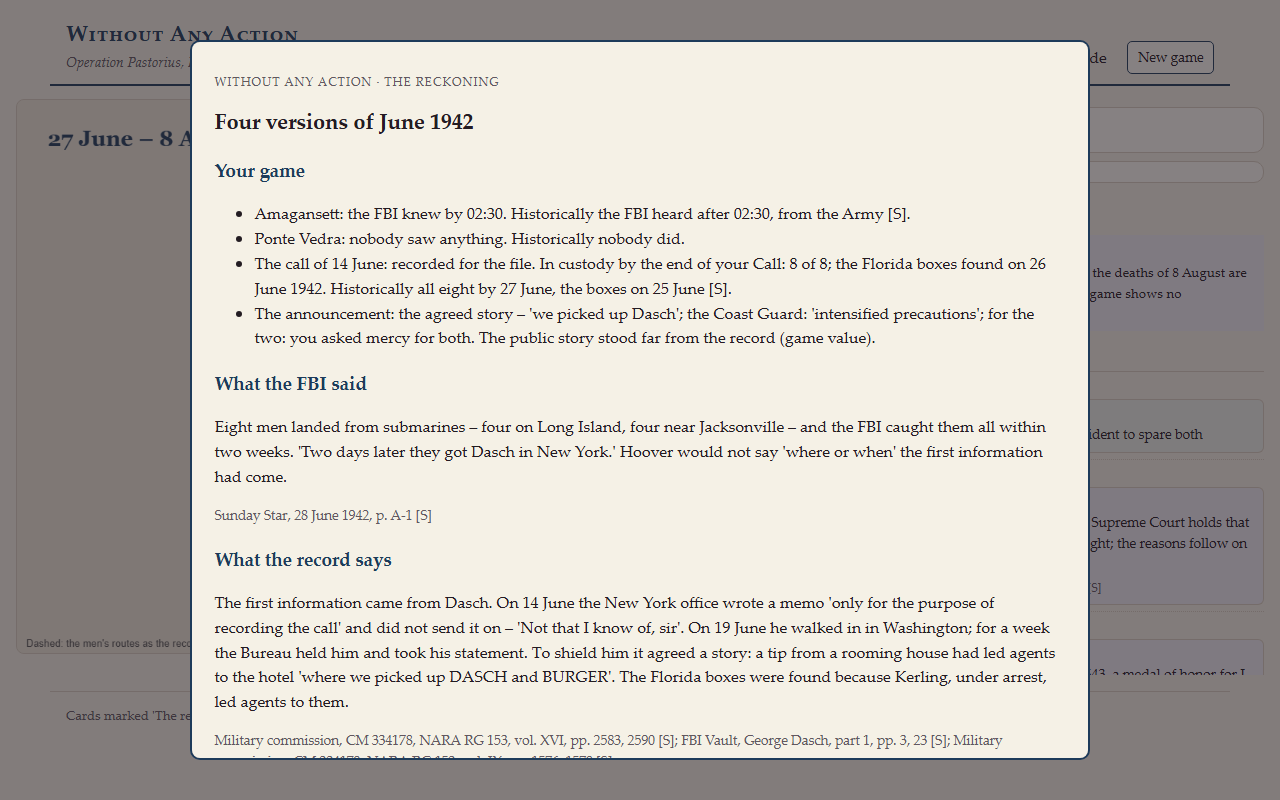
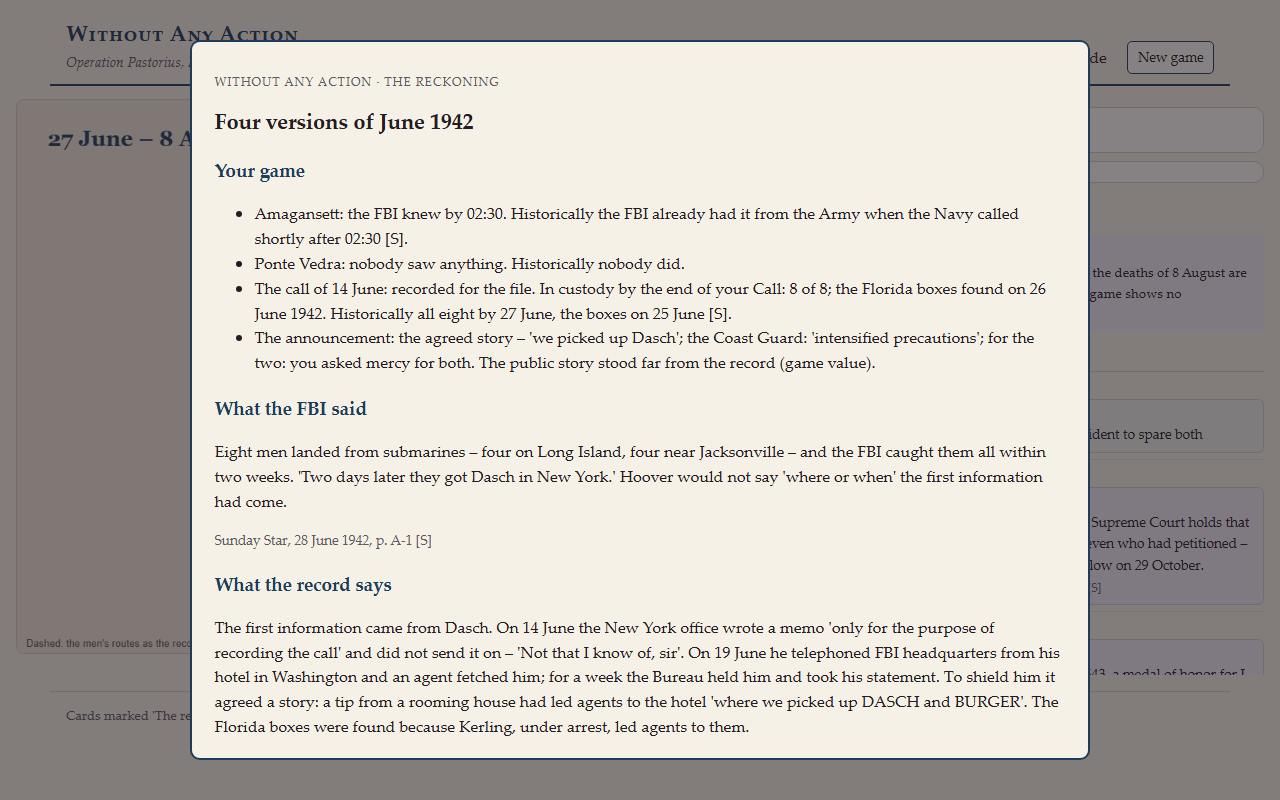
Corrections from the reader transcriptions; station plate upright; reader in ITCH-TEXT

Changed region(s): [[0.1562, 0.25, 0.8438, 0.9375], [0.8438, 0.6562, 0.9688, 0.7188]]

diff --git a/data-wa.js b/data-wa.js
@@ -16,20 +16,20 @@
   };
 
   /* ---------------------------------------------------------------- I A: Amagansett, 12/13 June 1942 */
-  WA.AMA_INTRO = { t1: "Amagansett Coast Guard station, Long Island, a little before midnight on 12 June 1942. Fog; 'very dark'; low tide. Seaman Second Class John C. Cullen is due out at 00:10 on the patrol east. The order of 11 April says two men to a watch, both ways from the station.",
-    src: `${T}, vol. I, pp. 101, 109 (Cullen) [S]; vol. II, exhibit P-13-A (order of 11 April 1942) [S]` };
+  WA.AMA_INTRO = { t1: "Amagansett Coast Guard station, Long Island, a little before midnight on 12 June 1942. Fog; 'very dark'; low tide. John C. Cullen of the station's crew is due out at 00:10 on the patrol east. The order of 11 April says two men to a watch, both ways from the station.",
+    src: `${T}, vol. I, pp. 101, 109 (Cullen) [S]; Eastern Sea Frontier, War Diary, June 1942, NAID 78184481, image 539 [S]; vol. II, exhibit P-13-A (order of 11 April 1942) [S]` };
   WA.AMA = [
     { at: 25, k: "beach", t1: "Not quite half a mile from the station Cullen meets men at the water's edge. One says they are fishermen who have run aground; he offers about a hundred dollars, then about three hundred. Cullen takes the money – he counts $260 later – and goes back.",
       src: `${T}, vol. I, pp. 101–111 (Cullen) [S]; Eastern Sea Frontier, War Diary, June 1942, NAID 78184481, image 539 [S]` },
-    { at: 65, k: "file", t1: "01:05: the chief boatswain's mate in charge, Warren Barnes, is called at his house; at 01:12 he is at the station, at 01:15 on the beach. The duty man, Jenette, has gone down with three men and rifles.",
-      src: `${T}, vol. I, pp. 121–127 (Barnes) [S]` },
+    { at: 65, k: "file", t1: "01:05: the chief boatswain's mate in charge, Warren Barnes, is called at his house; at 01:12 he is at the station, at 01:15 on the beach. The duty man, Jenette, has gone down with three men and Cullen, all with rifles. On the beach there is a smell of diesel.",
+      src: `${T}, vol. I, pp. 121–127 (Barnes) [S]; Eastern Sea Frontier, War Diary, June 1942, NAID 78184481, image 541 [S]` },
     { at: 115, k: "file", t1: "01:55: the report reaches the District Intelligence Officer of the Third Naval District; about 02:00 the Eastern Sea Frontier. Eight Coast Guardsmen are on the beach – the report upstairs says 'at least 100'. An Army lieutenant comes with twenty men.",
       src: "Eastern Sea Frontier, War Diary, June 1942, NAID 78184481, images 539–543 [S]" },
-    { at: 150, k: "file", t1: "After 02:30 the FBI in New York is reached; it already has the story – from the Army.",
+    { at: 150, k: "file", t1: "Shortly after 02:30 the Navy reaches the FBI in New York; the FBI already has the story – from the Army.",
       src: "Eastern Sea Frontier, War Diary, June 1942, NAID 78184481, image 544 [S]" },
-    { at: 255, k: "beach", t1: "About 04:15: engines heard to the south, offshore. A smell of diesel.",
-      src: "Eastern Sea Frontier, War Diary, June 1942, NAID 78184481 [S]" },
-    { at: 330, k: "beach", t1: "First light: four wooden boxes, six inches under the sand, wrapped in paper and canvas, tin cans inside; 150 feet to the north-east a bag of clothes and two shovels. On top: a raincoat, bathing trunks, a sneaker, cigarettes.",
+    { at: 255, k: "beach", t1: "About 04:15: the sound of engines offshore, going away to the south.",
+      src: `${T}, vol. I, p. 126 (Barnes) [S]` },
+    { at: 330, k: "beach", t1: "First light: four wooden boxes, six inches under the sand, wrapped in paper and canvas, tin cans inside; 150 feet to the north-east a bag of clothes and two shovels. On top: a raincoat, bathing trunks, a sneaker.",
       src: `${T}, vol. I, pp. 127–130 (Barnes) [S]` }
   ];
   WA.AMA_AFTER = [
@@ -53,7 +53,7 @@
       src: "Section Base Mayport, War Diary, 16 June 1942, NAID 133928462, image 124 [S]" },
     { k: "file", t1: "17 June, 00:00–07:00: YP-31 'Patrolling area South from St. Mary's Sea Buoy to St. Johns Lightship' – north of the river. No boat is south of the mouth all night.",
       src: "Section Base Mayport, War Diary, 17 June 1942, NAID 133928462, image 125 [S]" },
-    { k: "file", t1: "U-584, war diary, 17 June, 08:00 German time (about 02:00 on the beach): 'S.-Unternehmung gemäss Befehl durchgeführt. Starke Luftüberwachung.' – special operation carried out as ordered; strong air patrols.",
+    { k: "file", t1: "U-584, war diary, 17 June, 08:00 by the boat's clock (about 02:00 on the beach, if, as its dive times suggest, it ran six hours ahead): 'S.-Unternehmung gemäss Befehl durchgeführt. Starke Luftüberwachung.' – special operation carried out as ordered; strong air patrols.",
       src: "U-584, Kriegstagebuch, NARA T1022, roll 3392, image 650 [S]" },
     { k: "beach", t1: "The four walk north along the beach, 'passing some houses'; at daybreak, near Jacksonville Beach, they rest behind 'a concrete wall' – a sea wall. By bus they reach Jacksonville about noon.",
       src: `${T}, vol. X, p. 1800 (Thiel's statement) [S]; QS-B (bus, hotels) [O]` }
@@ -63,25 +63,25 @@
   WA.CALL_EVENTS = [
     { t: 0, k: "file", t1: "Sunday, 14 June, 19:51, FBI New York: 'FRANK DANIEL POSTORIUS called this office by telephone.' He has come from Germany 'two days ago'; on Thursday or Friday he will go to Washington to see 'Mr. HOOVER or his secretary'. He will not say where he is staying and refuses to come to the office; he asks that his call be recorded and Washington told.",
       src: `${T}, vol. XVI, p. 2583 (Def. Exh. G, memo of Special Agent McWhorter) [S]` },
-    { t: 1, k: "file", t1: "15 June: Assistant Director E. J. Connelley takes charge of the case in New York. The Bureau has no name for any of the men.",
-      src: `${T}, vol. XVI, p. 2588 (Connelley) [O]` },
-    { t: 3, k: "press", t1: "In Florida a newspaper asks whether the FBI has arrested four Germans landed on the coast. The FBI says nothing.",
-      src: "FBI Vault, George Dasch, part 1, p. 4 [O]; Evening Star, 9 Aug. 1942, p. A-4: 'after 10 days of rumors' [S]" },
+    { t: 1, k: "file", t1: "15 June: Assistant Director E. J. Connelley takes charge of the case in New York. Nobody of the name of 'Pastorius' has been identified.",
+      src: `${T}, vol. XVI, pp. 2588, 2590 (Connelley) [S]` },
+    { t: 5, k: "press", t1: "In Florida, Hoover tells New York on the telephone, the press has asked the FBI's office whether four Germans landed on the coast have been arrested.",
+      src: "FBI Vault, George Dasch, part 1, p. 4 (Hoover's calls of 19 June) [S]; Evening Star, 9 Aug. 1942, p. A-4: 'after 10 days of rumors' [S]" },
     { t: 5, k: "file", t1: "Friday, 19 June, about 10:00: from the Mayflower Hotel in Washington a man calls FBI headquarters as 'George Davis', 'leader of a group of eight men'. At 10:30 an agent fetches him. Before that he had tried to reach a Colonel Cramer of the Provost Marshal General's office – without success.",
-      src: `${T}, vol. V, pp. 695–696 (Traynor) [O]; stipulation, vol. IV, p. 476 [S]` },
-    { t: 5, k: "file", t1: "Headquarters had not been told of the call from New York. 'I had received no such notification.'",
+      src: `${T}, vol. V, pp. 695–696 (Traynor) [S]; stipulation, vol. IV, p. 476 [S]` },
+    { t: 5, k: "file", t1: "At headquarters, the agent who will take the man's statement has not been told of the call from New York: 'I had received no such notification.'",
       src: `${T}, vol. XI, p. 1854 (Traynor, FBI headquarters, cross-examination) [S]` },
     { t: 6, k: "file", t1: "20 June, 17:00–17:30, New York: Quirin, Heinck and Burger arrested, after Burger met the other two at Rogers Peet on Fifth Avenue.",
       src: `FBI Vault, George Dasch, part 1, p. 10 [S]; ${T}, vol. IV, p. 476 [S]` },
     { t: 8, k: "file", t1: "22 June: the handkerchief Dasch handed over is developed with ammonia. In secret ink: an address in Lisbon, a pastor in New Jersey, Walter Froehling in Chicago, and 'Helmut Leiner, who he stated was a friend of Kerling's, with whom he could always contact and locate Kerling'.",
-      src: `${T}, vol. V, pp. 694–695, 739, 741 (Traynor) [S]` },
+      src: `${T}, vol. V, pp. 694–695, 739–741 (Traynor) [S]` },
     { t: 9, k: "file", t1: "23 June, about 22:00: Edward Kerling is arrested in front of the Shelton Hotel on Lexington Avenue, on his way – he said – to meet his wife. Between 23:30 and 23:50 Werner Thiel, outside the Commodore on 42nd Street.",
-      src: `${T}, vol. IX, p. 1509 (Fisher) [S]; vol. X, p. 1758 (Foster) [S]; Kerling's statement, vol. IX, p. 1562 [O]` },
+      src: `${T}, vol. IX, p. 1509 (Fisher) [S]; vol. X, pp. 1758–1759 (Foster) [S]; Kerling's statement, vol. IX, p. 1563 [S]` },
     { t: 10, k: "file", t1: "24 June, 20:00: Dasch, held since the 19th in 'protective custody', is formally arrested.",
       src: `${T}, vol. IV, p. 476 (stipulation) [S]` },
-    { t: 11, k: "beach", t1: "25 June: FBI agents with Kerling, off the Silver Meteor at 08:30, drive south from Ponte Vedra 'about 4 miles' on Route 140 and search on foot. By a barbed-wire fence, a concrete foundation and three palm stumps, about 100 yards from the water, they dig up four boxes. Thirty feet to the north: two shovels and four German naval caps. Only FBI men are there.",
+    { t: 11, k: "beach", t1: "25 June: FBI agents with Kerling, off the Silver Meteor at 08:30, drive south from Ponte Vedra 'about 4 miles' on Route 140 and search on foot. By a barbed-wire fence, a concrete foundation and three palm stumps, about 100 yards from the water, they dig up four boxes. Only FBI men are there. Later, thirty feet to the north, an agent digs up two shovels and four German caps.",
       src: `${T}, vol. IX, pp. 1576–1578 (Holtzman) [S]; vol. X, pp. 1702–1703 (Prior) [S]` },
-    { t: 12, k: "file", t1: "26 June: Naval intelligence in New York learns of the Florida landing – 'by accident'. That night, for the first time, a Mayport boat patrols 'between St. Johns Lightship and Ponte Vedra, Fla.'",
+    { t: 12, k: "file", t1: "From 00:00 on 26 June – the night after the FBI dug up the boxes – a Mayport boat patrols for the first time 'between St. Johns Lightship and Ponte Vedra, Fla.' The same day naval intelligence in New York learns of the Florida landing – 'by accident'.",
       src: "Eastern Sea Frontier, War Diary, June 1942, NAID 78184481 [S]; Section Base Mayport, War Diary, 26 June 1942, NAID 133928462, image 136 [S]" },
     { t: 13, k: "file", t1: "27 June, 09:08, Chicago: Herbert Haupt is arrested at the Webster Street elevated station; at 18:45 Hermann Neubauer, in the Sheridan Plaza Hotel.",
       src: `${T}, vol. IX, p. 1603 (Hirsh) [S]; vol. X, p. 1706 (Fisher) [S]; vol. IV, p. 476 [S]` }
@@ -109,10 +109,10 @@
       src: "Sunday Star (Washington), 28 June 1942, p. A-1, special dispatch from New York [S]" },
     { s: "coast", k: "press", t1: "Page A-4: 'The Nazi Plot That Failed'. FBI photographs, released to the press: 'Scene south of Jacksonville, Fla., showing location of boxes of explosives still in hole on the beach'.",
       src: "Sunday Star, 28 June 1942, p. A-4, A.P. Wirephoto [S]" },
-    { s: "rumour", k: "press", t1: "'Nazi Saboteurs' Contact Men Seized by Federal Agents.' For the first time a place in Florida is named: they 'landed at Ponte Vedra Beach, near Jacksonville, Fla., June 17, Mr. Hoover said'. 'We have their full statements of confession.'",
-      src: "Evening Star, 29 June 1942, p. A-1, AP [S]; quotation [O]" },
+    { s: "rumour", k: "press", t1: "'Nazi Saboteurs' Contact Men Seized by Federal Agents.' For the first time Ponte Vedra Beach is named: they 'landed at Ponte Vedra Beach, near Jacksonville, Fla., June 17, Mr. Hoover said'. 'We have their full statements of confession.'",
+      src: "Evening Star, 29 June 1942, p. A-1, AP [S]" },
     { s: "rumour", k: "press", t1: "'The FBI did not reveal how the dynamiters were caught. An unofficial report was that a lone unarmed Coast Guardsman …'",
-      src: "Evening Star, 29 June 1942, p. A-2, AP [O]" },
+      src: "Evening Star, 29 June 1942, p. A-2, AP [S]" },
     { s: "commission", k: "file", t1: "2 July: by Proclamation 2561 the President closes the civil courts to enemies entering the country to commit sabotage; a military order names a commission of seven generals. The Star: '7 ARMY GENERALS TO TRY SABOTEURS HERE'.",
       src: "Proclamation 2561 and Military Order, 2 July 1942, 7 Federal Register 5101, 5103 [S]; Evening Star, 2 July 1942, p. A-1 [S]" },
     { s: "commission", k: "file", t1: "From 8 July the commission sits behind closed doors. Cullen tells of the night on the beach; on 27 July, called by the defence, McWhorter and Connelley testify on the call of 14 June.",
@@ -123,14 +123,14 @@
       src: "USCG, First Naval District, 'Landing of Enemy Agents', 16 July 1942, NAID 207525008, p. 1 [S]" },
     { s: "lenient", k: "file", t1: "23 July: the Senate passes S. 2643, a medal of honor for J. Edgar Hoover for the arrest of 'enemy agents, saboteurs, and fifth columnists during the month of June 1942'. 25 July: Coast Guard Headquarters orders an organized beach patrol in all coastal districts.",
       src: "FBI Vault, J. Edgar Hoover, part 5, p. 57 [S]; The Coast Guard at War XVII: Beach Patrol (1945), p. 5 [S]" },
-    { s: "lenient", k: "file", t1: "31 July: in Ex parte Quirin the Supreme Court holds that the commission may try the eight; the reasons follow on 29 October.",
+    { s: "lenient", k: "file", t1: "31 July: in Ex parte Quirin the Supreme Court holds that the commission may try the seven who had petitioned – Dasch had not; the reasons follow on 29 October.",
       src: "Ex parte Quirin, 317 U.S. 1 (1942) [S]" }
   ];
   WA.END_RECORD = [
-    "On 8 August 1942 six of the eight were put to death in the District of Columbia jail. The President, the White House announced, had spared two – Burger with a life sentence, Dasch with thirty years – 'because they helped the Government apprehend and convict the others'.",
-    "In April 1948 President Truman granted clemency to Dasch and Burger on condition of deportation; both were sent to Germany."
+    "On 8 August 1942 six of the eight were put to death in the District of Columbia jail. The President, the White House announced, had spared two – Burger with a life sentence, Dasch with thirty years – 'because of their assistance to the Government of the United States in the apprehension and conviction of the others'.",
+    "In April 1948 President Truman approved clemency for Dasch and Burger; the Army took both to the American Zone of Germany, where the rest of their sentences was suspended under conditions."
   ];
-  WA.END_SRC = "Evening Star, 8 Aug. 1942, p. A-1 [S], quotation [O]; White House press release, 26 April 1948, NAID 284841056 [S]";
+  WA.END_SRC = "White House statement, in the Evening Star, 8 Aug. 1942, p. A-1 [S]; White House press release, 26 April 1948, NAID 284841056 [S]";
   WA.AFTER = [
     { t1: "In Chicago, Haupt's parents and others were tried for treason for having sheltered him; the Supreme Court upheld Hans Max Haupt's conviction in 1947.", src: "Haupt v. United States, 330 U.S. 631 (1947) [S]" },
     { t1: "In New York the conviction of Anthony Cramer, who had met Thiel and Kerling, was reversed in 1945.", src: "Cramer v. United States, 325 U.S. 1 (1945) [S]" },
@@ -143,17 +143,17 @@
   WA.VERSIONS = {
     fbi: { title: "What the FBI said", text: "Eight men landed from submarines – four on Long Island, four near Jacksonville – and the FBI caught them all within two weeks. 'Two days later they got Dasch in New York.' Hoover would not say 'where or when' the first information had come.",
       src: "Sunday Star, 28 June 1942, p. A-1 [S]" },
-    record: { title: "What the record says", text: "The first information came from Dasch. On 14 June the New York office wrote a memo 'only for the purpose of recording the call' and did not send it on – 'Not that I know of, sir'. On 19 June he walked in in Washington; for a week the Bureau held him and took his statement. To shield him it agreed a story: a tip from a rooming house had led agents to the hotel 'where we picked up DASCH and BURGER'. The Florida boxes were found because Kerling, under arrest, led agents to them.",
+    record: { title: "What the record says", text: "The first information came from Dasch. On 14 June the New York office wrote a memo 'only for the purpose of recording the call' and did not send it on – 'Not that I know of, sir'. On 19 June he telephoned FBI headquarters from his hotel in Washington and an agent fetched him; for a week the Bureau held him and took his statement. To shield him it agreed a story: a tip from a rooming house had led agents to the hotel 'where we picked up DASCH and BURGER'. The Florida boxes were found because Kerling, under arrest, led agents to them.",
       src: `${T}, vol. XVI, pp. 2583, 2590 [S]; FBI Vault, George Dasch, part 1, pp. 3, 23 [S]; ${T}, vol. IX, pp. 1576–1578 [S]` },
-    coast: { title: "What the Coast Guard said", text: "A lone patrolman met the first four on the beach, kept his head, took their money and reported; the station found the boxes at dawn. After the war its own history had the Florida boxes found by 'local fishermen' and Dasch 'picked up at Yorkville'. Both are wrong.",
-      src: "Boston Daily Globe, 16 July 1942, AP [S]; The Coast Guard at War XVII: Beach Patrol (1945), p. 5, notes 1–2 [S]" },
-    beach: { title: "What the beach at Ponte Vedra saw", text: "Nothing. That night the only patrol boat out ran north of the river; the Army's motor patrol kept to the inhabited stretch of the beach road. The first night patrol off Ponte Vedra is in the war diary for 26 June – the night after the FBI dug up the boxes.",
+    coast: { title: "What the Coast Guard said", text: "A lone patrolman met the first four on the beach, kept his head, took their money and reported; the station found the boxes at dawn. In 1945 its own confidential history had the Florida boxes found by 'local fishermen' and Dasch 'picked up at Yorkville'. Both are wrong.",
+      src: "Boston Daily Globe, 16 July 1942, AP, extract in USCG file NAID 207525008 [S]; The Coast Guard at War XVII: Beach Patrol (15 May 1945), p. 5, notes 1–2 [S]" },
+    beach: { title: "What the beach at Ponte Vedra saw", text: "Nothing. That night the only patrol boat out ran north of the river; the Army's motor patrol was ordered to the inhabited stretch of the beach road. The first night patrol off Ponte Vedra is in the war diary for 26 June – the night after the FBI dug up the boxes.",
       src: "Section Base Mayport, War Diary, 17 and 26 June 1942, NAID 133928462, images 125, 136 [S]; " + T + ", vol. IV, p. 529 [S]" }
   };
 
   /* ---------------------------------------------------------------- fixed record panels */
   WA.FIXED = {
-    ama: "No one on the US side ever fired a shot or made an arrest on the beach. The Coast Guard patrols were unarmed; the investigation of enemy agents was the FBI's.",
+    ama: "No one on the US side fired a shot or made an arrest on the beach. Cullen walked unarmed; after his report the station armed its men. The investigation of enemy agents was the FBI's.",
     pv: "Nobody saw the landing at Ponte Vedra. The game lets you try – the record does not.",
     call: "How the Florida men were found, no witness told the commission; the times of arrest were agreed between counsel, without places.",
     credit: "The commission's verdicts and the deaths of 8 August are the record, never a move. This game shows no photograph of the dead."

diff --git a/engine.js b/engine.js
@@ -13,10 +13,10 @@
   E.newAma = seed => ({ r: seed >>> 0, step: 0, t: 0, desc: 30, evidence: 50, cg: 50, fbiAt: null, seenTrain: false, dec: {}, over: false });
   const AMA_DEC = [
     { id: "watch", title: "Setting the watch", text: "Cullen is due out at 00:10. The order of 11 April says two men to a watch, both ways; the station is short of men and the fog is thick.",
-      note: "Historically Cullen went alone, eastward, unarmed [S]. Every patrol is unarmed in this game.",
+      note: "Historically Cullen went alone, eastward, unarmed [S]. In this game nobody is armed until a report comes in.",
       opts: [["solo", "One man east, as usual"], ["pair", "Two men east, as ordered"], ["both", "Two pairs, east and west – the station nearly empty"]] },
     { id: "report", title: "Cullen is back", text: "He has met four men at the water's edge – fishermen, they said – and has been paid to forget it. He is shaken; the money is in his pocket.",
-      note: "Historically the duty man took three men with rifles to the beach and the chief, Barnes, was called; the Navy and the Army were told from the station [S].",
+      note: "Historically the duty man took three men and Cullen, all with rifles, to the beach and the chief, Barnes, was called; the Navy and the Army were told from the station [S].",
       opts: [["chief", "Call the chief, send men to the beach, tell the Navy"], ["army", "Call the Army post first – it is five miles off"], ["fbi", "Telephone the FBI in New York yourself"]] },
     { id: "search", title: "On the beach", text: "Fog, low tide, no moon. Footprints run up into the dunes. The men are gone – inland, to the road, the village, the railway.",
       note: "Historically the beach and dunes were searched; the boxes were found at first light [S]. The four took a train to New York [L].",
@@ -25,7 +25,7 @@
       note: "Historically the FBI took the lead at an 11:00 conference; the Coast Guard kept a vest for its own inquiry until 17 June [S].",
       opts: [["hand", "Hand everything to the FBI as it lies"], ["keep", "Keep some pieces for the Coast Guard's own inquiry"], ["navy", "Report through the Navy and let them decide"]] },
     { id: "silence", title: "The men talk", text: "By noon Amagansett knows that something has happened on the beach. Your men are asked in the village.",
-      note: "The Coast Guard's own story came out through the Office of War Information on 15 July [S]; an 'unofficial report' of 'a lone unarmed Coast Guardsman' was in print on 29 June [O].",
+      note: "The Coast Guard's own story came out through the Office of War Information on 15 July [S]; an 'unofficial report' of 'a lone unarmed Coast Guardsman' was in print on 29 June [S].",
       opts: [["order", "Order silence – not a word, to anyone"], ["navy", "Leave it to the Navy to say what is said"]] }
   ];
   E.amaDecision = A => A.over ? null : AMA_DEC[A.step] || null;
@@ -39,7 +39,7 @@
       const base = { chief: 150, army: 120, fbi: 70 }[ch]; A.fbiAt = base + (A.lag || 0); A.t = 75;
       if (ch === "army") { A.cg -= 5; A.army = true; out.push("The Army post sends a truck of men; they are on the beach before 01:30. (game value)"); }
       if (ch === "fbi") { A.cg -= 10; A.evidence += 5; out.push(`The New York night desk takes the call at ${E.hhmm(A.fbiAt)} and writes it down. (game event)`); }
-      out.push(`The FBI knows by ${E.hhmm(A.fbiAt)} (historically after 02:30 – from the Army [S]).`);
+      out.push(`The FBI knows by ${E.hhmm(A.fbiAt)} (historically it already had it from the Army when the Navy called shortly after 02:30 [S]).`);
     }
     if (id === "search") {
       A.t = 330;
@@ -75,7 +75,7 @@
   E.newPv = seed => ({ r: (seed ^ 0x5bd1e995) >>> 0, h: 0, boats: { yp31: { at: "port", sea: 0 }, yp32: { at: "port", sea: 0 } }, army: null, aux: null, seen: null, northGap: 0, dec: {}, over: false });
   const PV_DEC = [
     { id: "army", title: "The Army's motor patrol", text: "The 104th Infantry's order of 3 June puts its motor patrol 'along the inhabited area of the beach road'. South of Ponte Vedra the road runs through empty dunes.",
-      note: "Historically the patrol kept to its order [S]; how many trucks and men it had, the record does not say.",
+      note: "Historically the order was in force that night and covered Ponte Vedra [S]; how many trucks and men the patrol had, and where it was at what hour, the record does not say.",
       opts: [["town", "Leave the Army to its order"], ["south", "Ask the Army to run part of the patrol south of Ponte Vedra"]] },
     { id: "aux", title: "Volunteers", text: "The Coast Guard Auxiliary is to 'provide volunteer beach patrols and lookouts' – on paper. Nobody has yet been posted on this beach.",
       note: "Rescue Order 1-42, June 1942 [S]. The organized beach patrol was ordered only on 25 July 1942 [S].",
@@ -84,7 +84,7 @@
   E.pvDecision = P => P.over ? null : (P.h === 0 && PV_DEC.find(d => !(d.id in P.dec))) || null;
   E.pvDecide = (P, id, ch) => { P.dec[id] = ch; if (id === "army") P.army = ch; if (id === "aux") P.aux = ch === "post"; return []; };
   E.pvClock = P => E.hhmm(20 * 60 + P.h * 60);
-  E.pvOrders = (P, b) => { if (b === "yp32" && P.h < 1) return [["port", "In port (crew ashore until 20:30)"]]; return D.ZONES.map(z => [z.id, z.name]); };
+  E.pvOrders = (P, b) => { if (b === "yp32" && P.h < 1) return [["port", "In port (not ready before 21:00 – game value)"]]; return D.ZONES.map(z => [z.id, z.name]); };
   E.pvEnd = (P, orders) => {
     const out = [];
     for (const b of ["yp31", "yp32"]) { const B = P.boats[b]; const o = orders[b] || B.at; B.at = o; if (o === "port") B.sea = Math.max(0, B.sea - 2); else B.sea++; }
@@ -136,7 +136,7 @@
       note: "Historically agents took Kerling south on the Silver Meteor; he showed them the place on 25 June [S]. No Coast Guard or Army man was there [S].",
       opts: [["take", "Take Kerling to Jacksonville"], ["search", "Ask the Army and Coast Guard to search the beach"], ["wait", "Wait until he names the place"]] },
     navy: { title: "Telling the Navy", text: "The Navy and the Coast Guard in Jacksonville do not know that Germans landed on their beach.",
-      note: "Historically naval intelligence learned of it 'by accident' on 26 June [S].",
+      note: "Historically naval intelligence in New York learned of it 'by accident' on 26 June [S].",
       opts: [["keep", "Keep it within the Bureau for now"], ["tell", "Tell the Navy in Jacksonville at once"]] },
     chicago: { title: "Chicago: Haupt and Neubauer", text: "Haupt is staying with his family; Neubauer in a hotel. Agents watch both.",
       note: "Historically both were taken on 27 June [S].",
@@ -230,13 +230,13 @@
       note: "Historically the FBI's account said only that the Coast Guard had 'intensified precautions' [S].",
       opts: [["precaution", "'Intensified precautions' – no more"], ["cullen", "Name the patrolman and what he did"], ["nothing", "Say nothing about the Coast Guard"]] },
     rumour: { title: "'A lone unarmed Coast Guardsman'", text: "An unofficial report is in the papers: a single unarmed Coast Guardsman met the first group.",
-      note: "Historically 'The FBI did not reveal how the dynamiters were caught' [O].",
+      note: "Historically 'The FBI did not reveal how the dynamiters were caught' [S].",
       opts: [["silent", "No comment"], ["confirm", "Confirm it"], ["deny", "Deny it"]] },
     commission: { title: "Before the commission", text: "Defence counsel want to know what happened to a telephone call to the New York office on 14 June.",
       note: "Historically McWhorter and Connelley testified, called by the defence: the memo was not sent on [S].",
       opts: [["straight", "Let the agents answer straight"], ["narrow", "Keep their answers as narrow as the questions"]] },
     lenient: { title: "Two of the eight", text: "Dasch came in of his own accord; Burger told everything from the first hour. The commission will sentence all eight; the President will decide.",
-      note: "Historically Biddle and Hoover asked the President to spare both [O]; two were spared 'because they helped the Government' [S].",
+      note: "Historically the commission itself recommended clemency for both, unanimously, and the Attorney General and the Judge Advocate General concurred; the two were spared 'because of their assistance to the Government' [S].",
       opts: [["both", "Ask the President to spare both"], ["dasch", "Ask for Dasch alone"], ["none", "Leave it to the commission"]] }
   };
   E.creditDecision = K => { if (K.over) return null; const st = D.CREDIT_STAGES[K.s]; return st && CR_DEC[st.id] && !(st.id in K.dec) ? Object.assign({ id: st.id }, CR_DEC[st.id]) : null; };

diff --git a/reckoning.js b/reckoning.js
@@ -8,7 +8,7 @@ window.Reckoning = function (S, E, D) {
 
   // your game
   h += `<h3>Your game</h3><ul>`;
-  if (A) h += `<li>Amagansett: the FBI knew by ${E.hhmm(o.ama ? o.ama.fbiAt : A.fbiAt || 150)}${A.dec.search === "road" ? (A.seenTrain ? "; your men saw the four board the train" : "; your men watched the road and the station, and saw nothing") : ""}${A.dec.finds === "keep" ? "; the Coast Guard kept some pieces for itself" : ""}. Historically the FBI heard after 02:30, from the Army [S].</li>`;
+  if (A) h += `<li>Amagansett: the FBI knew by ${E.hhmm(o.ama ? o.ama.fbiAt : A.fbiAt || 150)}${A.dec.search === "road" ? (A.seenTrain ? "; your men saw the four board the train" : "; your men watched the road and the station, and saw nothing") : ""}${A.dec.finds === "keep" ? "; the Coast Guard kept some pieces for itself" : ""}. Historically the FBI already had it from the Army when the Navy called shortly after 02:30 [S].</li>`;
   if (P) h += `<li>Ponte Vedra: ${P.seen ? `${esc(P.seen.who)} reported ${esc(P.seen.what)} (game event)` : "nobody saw anything"}. Historically nobody did.</li>`;
   if (C) { const s = o.call || E.callSummary(C); h += `<li>The call of 14 June: ${esc({ file: "recorded for the file", wire: "recorded and wired to Washington", come: "you asked him to come in" }[s.call])}. In custody by the end of your Call: ${s.held.length} of 8${s.boxesDay != null ? `; the Florida boxes found on ${esc(E.dateOf(D.DAY0, s.boxesDay))}` : ""}. Historically all eight by 27 June, the boxes on 25 June [S].</li>`; }
   if (K) h += `<li>The announcement: ${esc({ cover: "the agreed story – 'we picked up Dasch'", forward: "one of them came forward, unnamed", full: "the whole story, the call included" }[K.dec.announce] || "–")}; the Coast Guard: ${esc({ precaution: "'intensified precautions'", cullen: "the patrolman named", nothing: "not mentioned" }[K.dec.coast] || "–")}; for the two: ${esc({ both: "you asked mercy for both", dasch: "you asked mercy for Dasch", none: "you left it to the commission" }[K.dec.lenient] || "–")}. The public story stood ${K.truth >= 60 ? "close to" : K.truth >= 35 ? "some way from" : "far from"} the record (game value).</li>`;

diff --git a/guide.html b/guide.html
@@ -16,7 +16,7 @@
 <main class="readable">
   <p class="tag">Guide</p><h1>How the game works</h1>
   <h2>I. The Beach (12/13 and 16/17 June 1942)</h2>
-  <p><b>Amagansett.</b> You run the Coast Guard station on Long Island for one night. You set the watch, decide whom to call when Seaman Cullen comes back with the strangers' money, where to send your men, what to do with the finds at first light and what the men may say. The record's times – 00:10, 01:05, 01:55, after 02:30 – come into the chronicle as you go. Every patrol is unarmed; the investigation of enemy agents belongs to the FBI.</p>
+  <p><b>Amagansett.</b> You run the Coast Guard station on Long Island for one night. You set the watch, decide whom to call when Seaman Cullen comes back with the strangers' money, where to send your men, what to do with the finds at first light and what the men may say. The record's times – 00:10, 01:05, 01:55, after 02:30 – come into the chronicle as you go. Cullen walks unarmed; the investigation of enemy agents belongs to the FBI.</p>
   <p><b>Ponte Vedra.</b> You are at the naval section base at Mayport, at the mouth of the St. Johns River, from 20:00 to 06:00. Each hour, give the two patrol boats YP-31 and YP-32 an area. Before the night you may ask the Army to run part of its motor patrol south of Ponte Vedra, and post two volunteers on the beach. A boat may stay out eight hours. Somebody may see something – rarely. Historically nobody did.</p>
   <h2>II. The Call (14–27 June 1942)</h2>
   <p>Each turn is a day at the FBI. Choose two things to do: canvass Long Island, work the evidence, watch known contacts, share with the Navy and Coast Guard, keep the press out – and, if the beach in Florida gave you a lead, search Jacksonville. The decisions come as they came: the call at 19:51 on Sunday 14 June, the man in Washington, the three in New York, the handkerchief in secret ink, the boxes in Florida, telling the Navy, Chicago. What happened in 1942 runs in the chronicle as 'The record'; what happens in your game is marked 'Game'.</p>

diff --git a/tools/make-assets.py b/tools/make-assets.py
@@ -35,4 +35,6 @@ for f, name in [("mayport-1942-06-17_0722.jpg", "mayport17.jpg"), ("mayport-1942
     im = Image.open(N / f).convert("L"); save(im.crop((0, int(im.height * 0.04), im.width, int(im.height * 0.86))), P / name)
 bp = pymupdf.open(Q / "cg-at-war" / "USCGATWAR-BEACHPATROL.pdf")
 for pno, name in [(5, "station1945.jpg"), (3, "mounted1945.jpg"), (7, "dog1945.jpg")]:
-    im = Image.open(io.BytesIO(bp[pno - 1].get_pixmap(dpi=150).tobytes("png"))).convert("L"); save(im, P / name)
+    im = Image.open(io.BytesIO(bp[pno - 1].get_pixmap(dpi=150).tobytes("png"))).convert("L")
+    if name == "station1945.jpg": im = im.rotate(-90, expand=True)   # the photograph is printed sideways
+    save(im, P / name)

diff --git a/itch/ITCH-TEXT.md b/itch/ITCH-TEXT.md
@@ -4,7 +4,7 @@ Dateien:
 - `itch/without-any-action-itch.zip` (Build: `python itch/build-itch.py`)
 - `itch/cover-630x500.png` (`python itch/make-cover.py`)
 - `itch/screenshot-1…6.png` (`python itch/make-shots.py`, Vorschau „waa-game“ auf Port 8785)
-- Lesebuch „The Documents“: folgt (eigene Datei mit eigenem Preis).
+- Lesebuch: `../reader/itch-upload/Without-Any-Action_The-Documents.zip` (PDF + EPUB, 89 S.; Build `python tools/build.py` im Ordner `reader`), Anzeigename „The Documents – reader (PDF + EPUB)“, **5 USD** (Vorschlag); Umschlag `documents-cover.jpg`.
 
 | Feld | Wert |
 |---|---|
@@ -15,7 +15,7 @@ Dateien:
 | Kind of project | HTML |
 | Release status | Released |
 | Pricing | **No payments** fürs Spiel, *oder* „$0 or donate“; das Lesebuch später als eigene Datei mit eigenem Preis („Set a different price for this file“). Dann muss das Projekt auf „Paid“ mit 0 USD Mindestpreis stehen – wie bei „Crystal Clear Waters“. |
-| Uploads | `without-any-action-itch.zip` → **This file will be played in the browser** |
+| Uploads | 1. `without-any-action-itch.zip` → **This file will be played in the browser** · 2. Lesebuch-ZIP → **Set a different price for this file** (5 USD) |
 | Embed options | Embed in page · Viewport **1280 × 800** |
 | Frame options | ☑ Fullscreen button · ☑ Enable scrollbars · ☐ Mobile friendly · ☐ Automatically start on page load |
 | Genre | Strategy |
@@ -54,3 +54,19 @@ In June 1942 two German U-boats put eight saboteurs ashore with explosives and A
 - Every card names its source. Most come from the transcript of the military commission, the FBI's New York file and the naval war diaries, read at the page images.
 - 12 plates, all US government works in the public domain, including the FBI memo of 14 June and the Mayport war diary for the night of the landing.
 - Free to play.
+
+**The Documents – reader (PDF + EPUB)**
+The record behind the game, read at the page images:
+- the Coast Guardsman and his chief before the military commission;
+- the Eastern Sea Frontier and Mayport war diaries;
+- the Army's beach-patrol order;
+- the war diary of U-584 (German with translation);
+- the FBI agents on the call of 14 June, the man in Washington, the arrests and the boxes in the sand;
+- the FBI's own New York file;
+- the Washington papers from 28 June to 9 August;
+- Proclamation 2561 and the Military Order;
+- Ex parte Quirin;
+- the Coast Guard's own account;
+- the clemency of 1948.
+
+With the four versions, the game's chronicle, a timeline and people. 89 pages. Edited by Pantaleon Fassbender.
